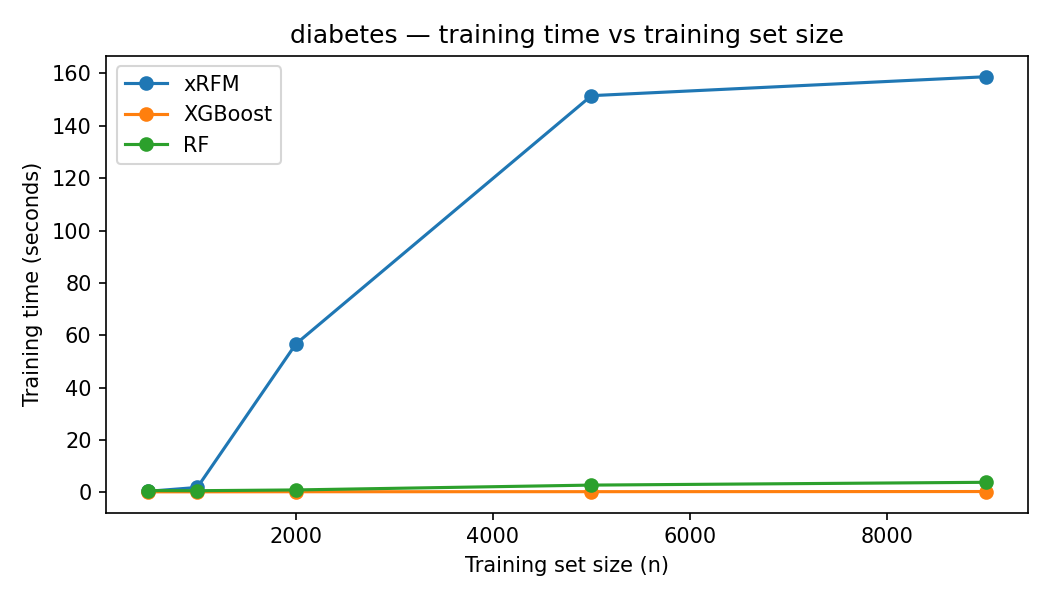
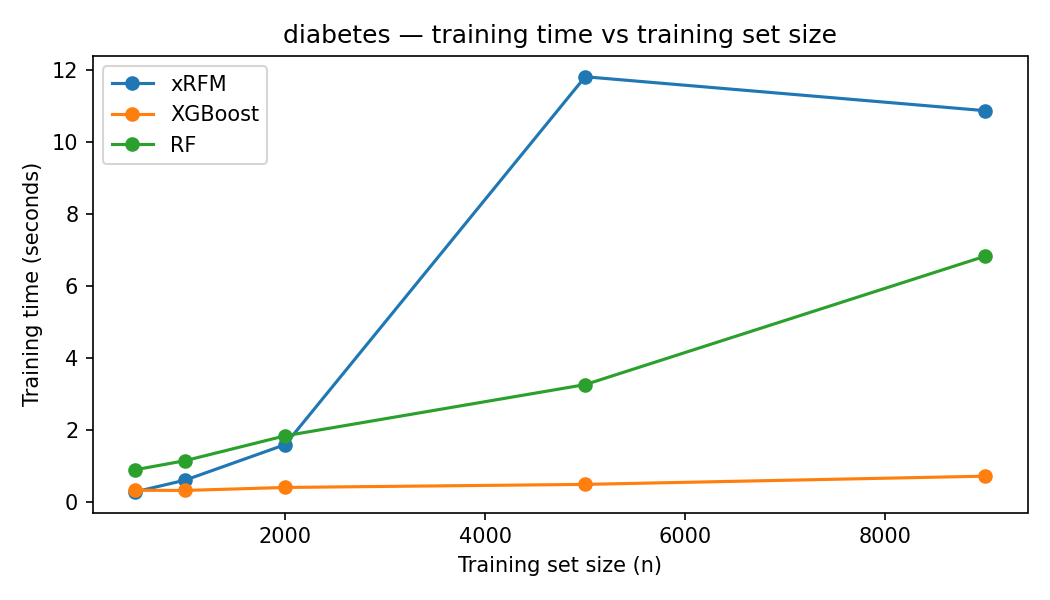
debugged errors

diff --git a/main.py b/main.py
@@ -11,6 +11,7 @@ from src.interpretability import (
     plot_interpretability_comparison,
     compute_rank_correlations,
 )
+import numpy as np
 import pandas as pd
 
 datasets = ["diabetes", "housing", "wine", "steel", "shoppers"]
@@ -46,6 +47,8 @@ for dataset in datasets:
     x_train, x_val, x_test, y_train, y_val, y_test, feature_names = data
     print(f"  Train: {x_train.shape}, Val: {x_val.shape}, Test: {x_test.shape}")
 
+    num_classes = len(np.unique(y_train)) if task == "classification" else 2
+
     tuners = {
         "xRFM":         (tune_xrfm,         get_xrfm),
         "XGBoost":      (tune_xgboost,       get_xgboost),
@@ -54,13 +57,14 @@ for dataset in datasets:
 
     for model_name, (tune_fn, model_fn) in tuners.items():
         print(f"\n  ── {model_name} ──")
-        
+
         try:
             print(f"    Tuning...")
-            best_params = tune_fn(x_train, y_train, x_val, y_val, task)
+            xgb_kwargs = {"num_classes": num_classes} if model_name == "XGBoost" else {}
+            best_params = tune_fn(x_train, y_train, x_val, y_val, task, **xgb_kwargs)
 
             print(f"    Training final model with best params...")
-            model = model_fn(task=task, **best_params)
+            model = model_fn(task=task, **xgb_kwargs, **best_params)
             model, train_time = train_and_time(model, x_train, y_train, x_val, y_val)
 
             print(f"    Running inference...")
@@ -100,8 +104,6 @@ print("\nDone. Results saved to results/main_table.csv")
 # ---------------------------------------------------------------------------
 # AGOP extraction verification — uses the first successfully trained xRFM
 # ---------------------------------------------------------------------------
-import numpy as np
-
 if _agop_test_state["model"] is not None:
     _test_model    = _agop_test_state["model"]
     _test_features = _agop_test_state["feature_names"]

diff --git a/src/models.py b/src/models.py
@@ -38,12 +38,12 @@ def compute_val_score(model, x_val, y_val, task):
         preds = model.predict(x_val)
         return 1 - accuracy_score(y_val, preds)
 
-def tune_xgboost(x_train, y_train, x_val, y_val, task, n_trials=20):
+def tune_xgboost(x_train, y_train, x_val, y_val, task, num_classes=2, n_trials=20):
     best_score, best_params = np.inf, None
     np.random.seed(seed)
     for _ in range(n_trials):
         params = {k: np.random.choice(v) for k, v in XGBOOST_PARAM_GRID.items()}
-        model = get_xgboost(task, **params)
+        model = get_xgboost(task, num_classes=num_classes, **params)
         model.fit(x_train, y_train)
         score = compute_val_score(model, x_val, y_val, task)
         if score < best_score:
@@ -122,15 +122,19 @@ def infer_and_time(model, x_test):
     return preds, infer_time
 
 def get_xrfm(task="classification", **kwargs):
-    # xRFM.__init__ has a stray `print(default_rfm_params)` (prints "None"
+    # xRFM.__init__ has a stray print(default_rfm_params) (prints "None"
     # when no default_rfm_params is passed).  Suppress it here so it doesn't
     # pollute training output.
     with contextlib.redirect_stdout(io.StringIO()):
         return xRFM(task=task, **kwargs)
 
-def get_xgboost(task="classification", **kwargs):
+def get_xgboost(task="classification", num_classes=2, **kwargs):
     if task == "classification":
-        return XGBClassifier(random_state=42, eval_metric="logloss", **kwargs)
+        if num_classes > 2:
+            return XGBClassifier(random_state=42, eval_metric="mlogloss",
+                                 objective="multi:softprob", num_class=num_classes, **kwargs)
+        else:
+            return XGBClassifier(random_state=42, eval_metric="logloss", **kwargs)
     return XGBRegressor(random_state=42, **kwargs)
 
 def get_random_forest(task="classification", **kwargs):

diff --git a/src/datasets.py b/src/datasets.py
@@ -164,4 +164,3 @@ def load_shoppers():
 
     cat_features, num_features = get_feature_types(x)
     return split_and_preprocess(x, y, cat_features, num_features, task="classification")
-
